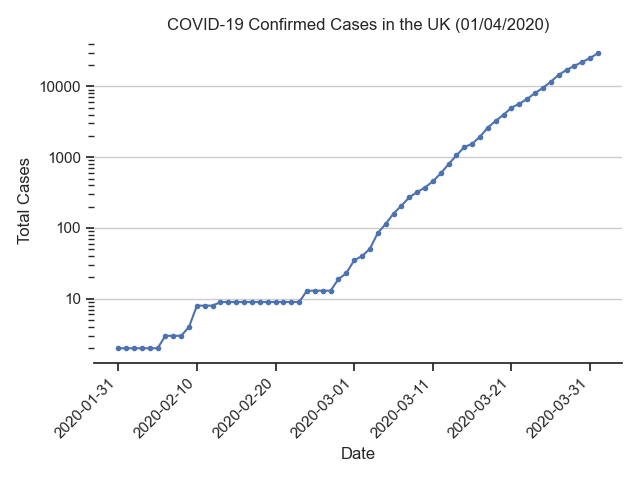
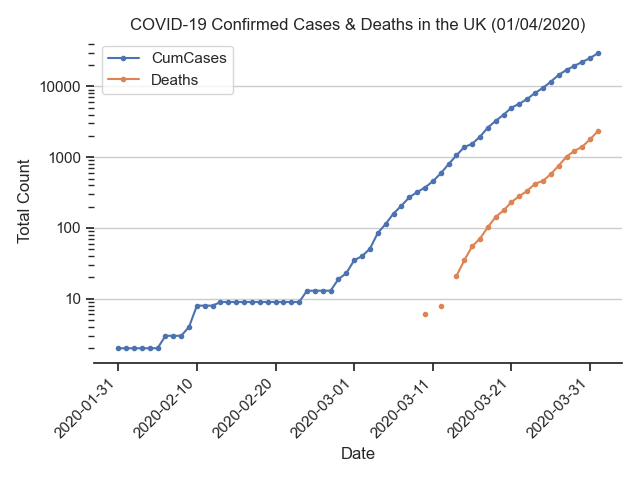
feat: add deaths to cases chart

diff --git a/bin/plots.py b/bin/plots.py
@@ -47,10 +47,18 @@ def plot_total_cases(data, yscale='linear', **kwargs):
         data,
         y='CumCases',
         yscale=yscale,
-        ylabel='Total Cases',
-        title=f'COVID-19 Confirmed Cases in the UK ({today})',
+        ylabel='Total Count',
+        title=f'COVID-19 Confirmed Cases & Deaths in the UK ({today})',
         **kwargs
     )
+    plt.plot(
+        data.index,
+        data['CumDeaths'],
+        label='Deaths',
+        color='C1',
+        marker='.'
+    )
+    plt.legend()
 
 
 def plot_new_cases(data, **kwargs):
